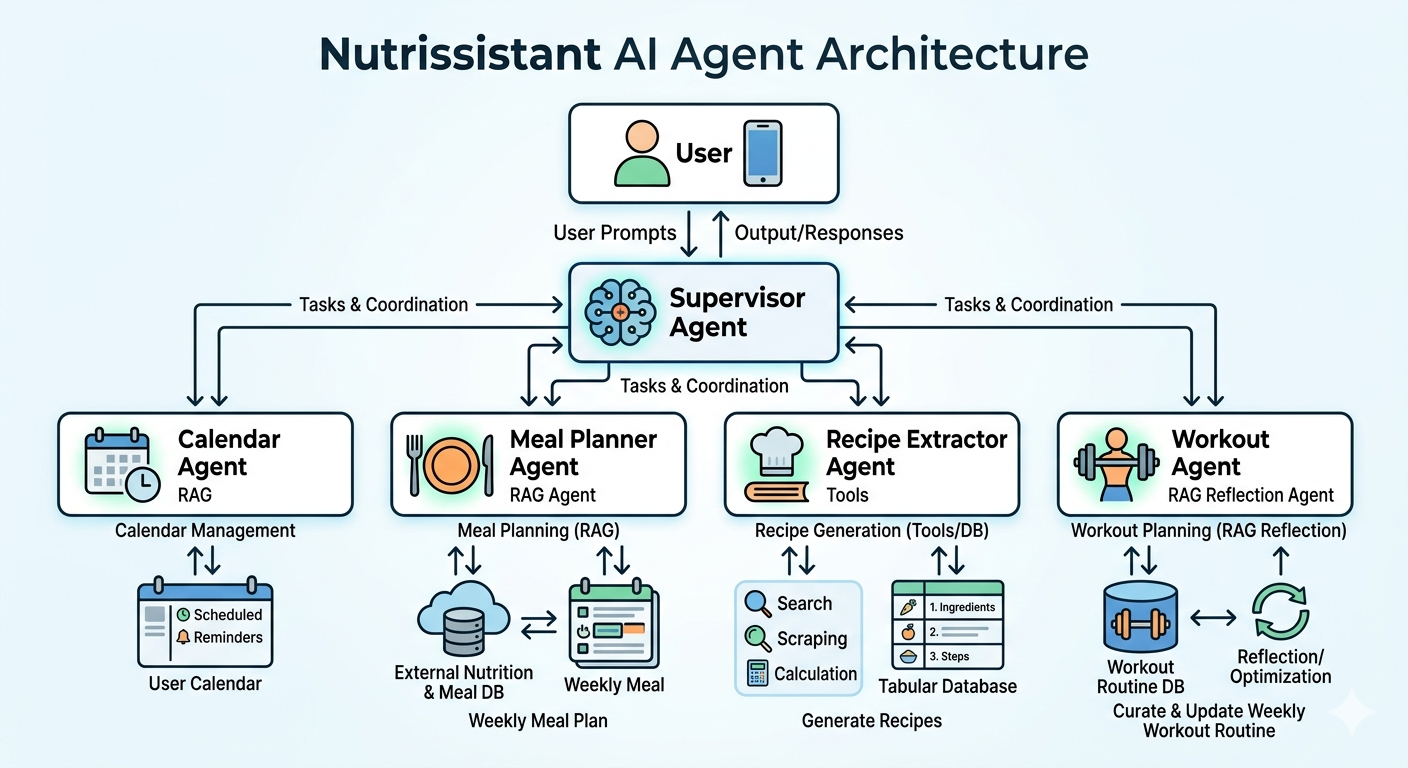
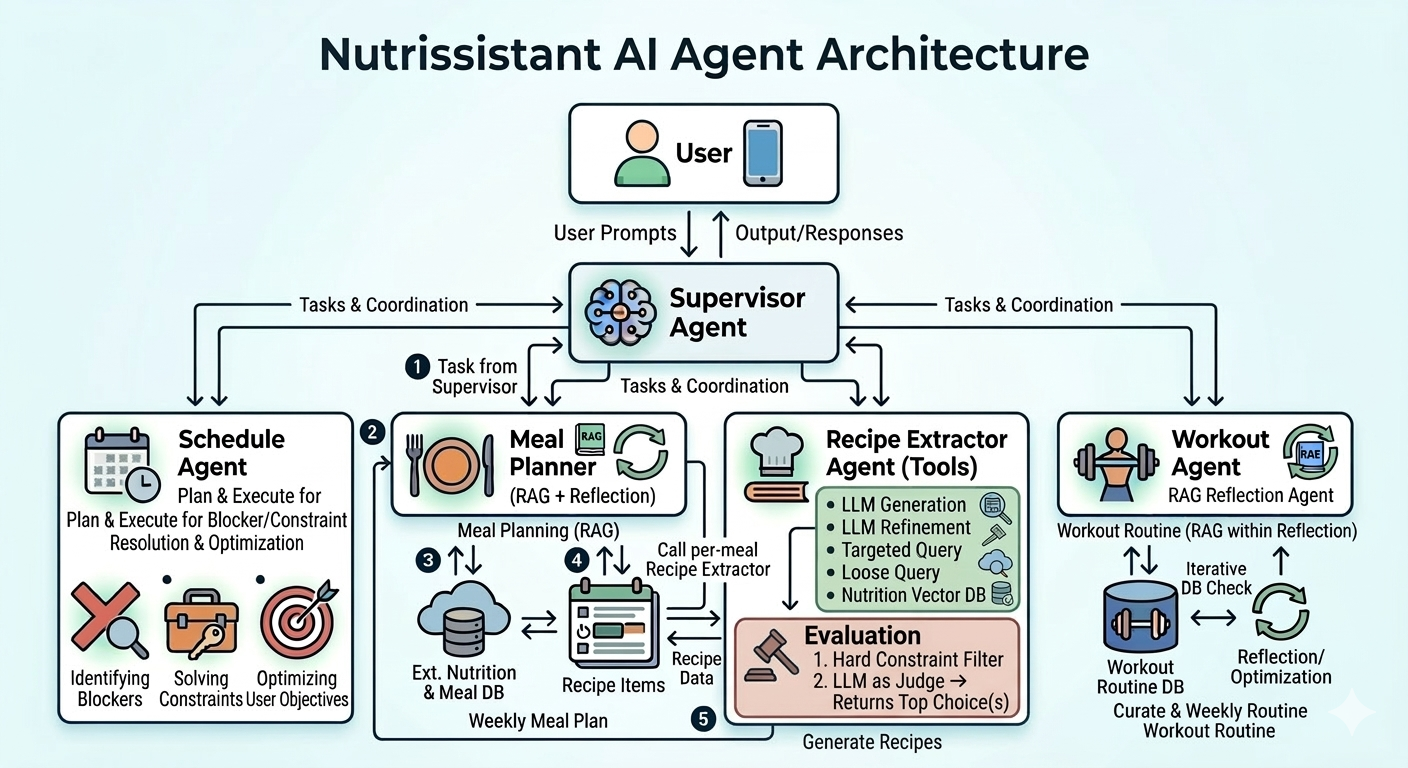
fixed readme and api calls

diff --git a/README.md b/README.md
@@ -30,25 +30,35 @@ Project goal:
 
 ### Agent Components
 
-**Supervisor Agent** — LLM Router and Orchestrator
+**Supervisor Agent** — Router-Orchestrator Agent
 
-The Supervisor acts as the reasoning backbone of the system. It receives every user prompt, classifies intent into task types (WORKOUT, SCHEDULE, PLAN_MEAL, FIND_RECIPE), extracts persistent context such as equipment, injuries, and dietary restrictions, and decides which agents to invoke and in which order. It runs a three-phase pipeline: gather constraints, execute domain tasks, commit outputs. At the end, it merges all agent results into a single coherent response and updates shared state.
+The Supervisor is the top-level control agent. It receives the raw user prompt, performs intent and context extraction, maps the request into task types (for example WORKOUT, SCHEDULE, PLAN_MEAL, FIND_RECIPE), and coordinates execution across downstream agents. It is also responsible for response composition and for emitting the step trace that explains how the final answer was produced.
 
-**Schedule Agent** — ReAct-style Calendar Agent
+**Schedule Agent** — Plan-and-Execute Agent
 
-The Schedule Agent operates in a ReAct pattern: it reasons about the current calendar state and takes targeted actions such as adding, removing, or rescheduling events. Given a user request, it parses the intended scheduling action, reads the live weekly schedule, applies a slot-finding algorithm, and writes the resolved event back to state. It can also run in a non-destructive constraint-gathering mode to provide available time slots to other agents before any plan is finalized.
+The Schedule Agent follows a plan-and-execute design. In the planning stage, an LLM extracts a structured action plan (`events[]`) from user language, including action type, target event, preferred day, and preferred time. In the execution stage, deterministic slot-allocation logic applies that plan against a sandbox copy of the weekly calendar, resolves feasible placements/reschedules, and then commits results to state (or returns proposal-only slots in gather mode). This design separates semantic interpretation (LLM planning) from reliable calendar mutation (rule-based execution).
 
 **Workout Agent** — Reflection RAG Agent
 
-The Workout Agent uses a Retrieval-Augmented Generation pipeline with an optional reflection loop. For new routine creation it runs iteratively: generate a candidate routine, then pass it to a critique LLM that checks safety, structure, and user alignment, then refine based on feedback. This repeats up to a configurable iteration limit. For smaller updates (swapping exercises, adjusting intensity) it falls back to a direct single-pass RAG generation. Scientific workout context is retrieved from a Pinecone vector index to ground generated plans in evidence.
+The Workout Agent is a retrieval-augmented generation agent with two operation modes. For routine creation and large edits, it runs a reflection loop (`generation -> critique -> refinement`) to improve safety and alignment. For smaller updates, it uses a faster single-pass RAG generation path. It consumes schedule-derived constraints from shared context and uses vector retrieval evidence when Pinecone is configured.
 
-**Recipe Extractor Agent** — Tool-Calling Agent
+**Recipe Extractor Agent** — Tool-Calling Agent (LangChain AgentExecutor)
 
-The Recipe Extractor is a LangChain `AgentExecutor`-based agent with a structured tool set. It reasons over a defined workflow: identify the target recipe component, choose a retrieval strategy (structured DB query, free-text DB query, or vector similarity search), build a candidate pool, and evaluate results through a two-stage pipeline: a hard-filter `STRICT_EVALUATOR` followed by a soft-ranking `LLM_EVALUATOR`. The final selected recipe is returned in a schema-validated output format. Fallback to LLM generation is available when retrieval returns no suitable candidates.
+The Recipe Extractor is a tool-using agent that can retrieve, evaluate, revise, and finalize recipes in structured JSON form. It uses a staged strategy: candidate generation/retrieval, strict filtering, quality ranking, optional revision, and finalization.
 
-**Meal Planner Agent** — Structured Output Agent
+Recipe Extractor tools:
+- `FREE_QUERY_DATABASE`: LLM converts free-form context into DB query parameters, then retrieves candidate recipes.
+- `STRACTURED_DATABASE_QUERY`: deterministic DB filtering for explicit constraints (time, category, nutrition, ingredients).
+- `USE_VECTOR_DB`: semantic nearest-neighbor retrieval over recipe embeddings.
+- `LLM_GENERATION`: generates a new recipe when retrieval candidates are insufficient.
+- `STRICT_EVALUATOR`: rule-based pass/fail gate (nutrition bounds, excluded ingredients, time constraints).
+- `LLM_EVALUATOR`: soft scoring and ranking among valid candidates.
+- `LLM_REVISER`: revises an existing recipe using feedback and constraints.
+- `GET_FULL_RECEPIE_DETAILS`: final DB fetch by recipe_id for complete output payload.
 
-The Meal Planner Agent operates against a defined input/output schema contract. It accepts meal context (meal type, day, available time, nutritional targets, restrictions) and returns a structured meal plan payload. It uses the Recipe Extractor Agent as a sub-component for individual dish resolution and is responsible for assembling complete daily or weekly nutrition plans within the constraints defined by the user profile.
+**Meal Planner Agent** — Schema-Driven Planning Agent
+
+The Meal Planner layer is defined by a strict output contract in `src/meal_planner/output_scheme.json`, including date-level meals, dish arrays, warnings, and suggestions. It standardizes how full meal plans should be represented and how dish objects should align with recipe output shape. In practice, it acts as the nutrition-plan composition contract around recipe-level generation/extraction outputs.
 
 ### Supporting Runtime Components
 
@@ -216,8 +226,3 @@ curl -X POST http://127.0.0.1:10000/api/execute \
 4. Review final response and execution trace.
 5. Inspect schedule and generated plan artifacts in the UI pages.
 
-## Notes
-
-- Keep secrets only in `.env` or deployment environment variables.
-- For deployment, the same start command (`bash start.sh`) is used with platform-provided `PORT`.
-- Team metadata and sample prompts in API info can be updated before final submission.
